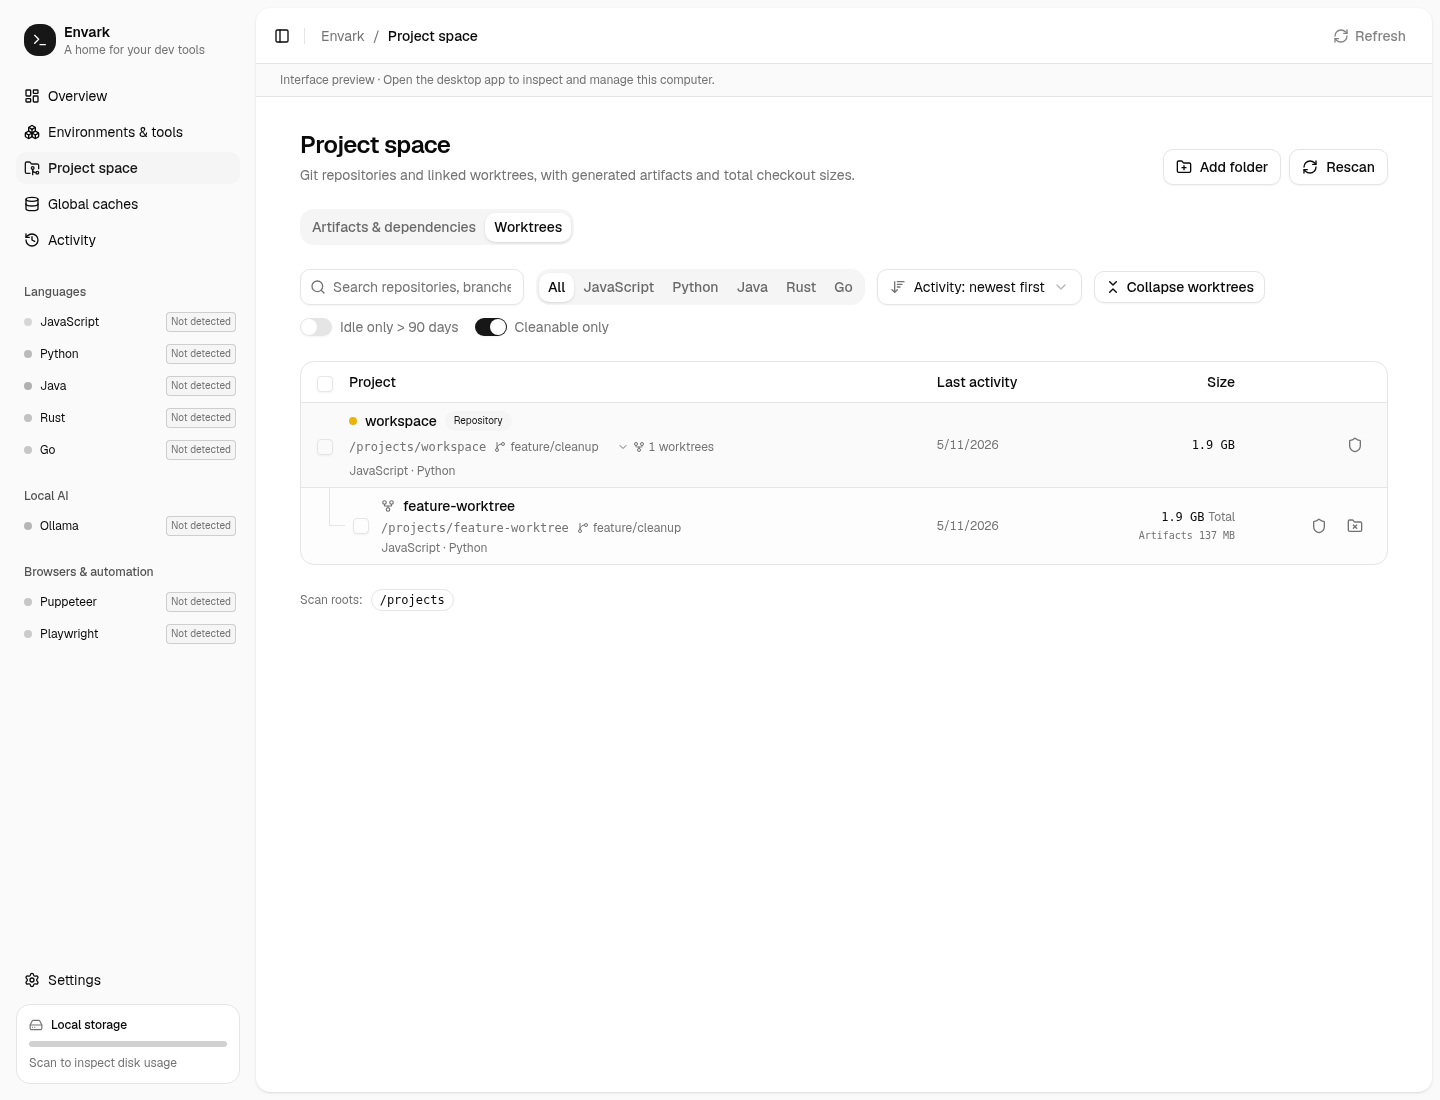
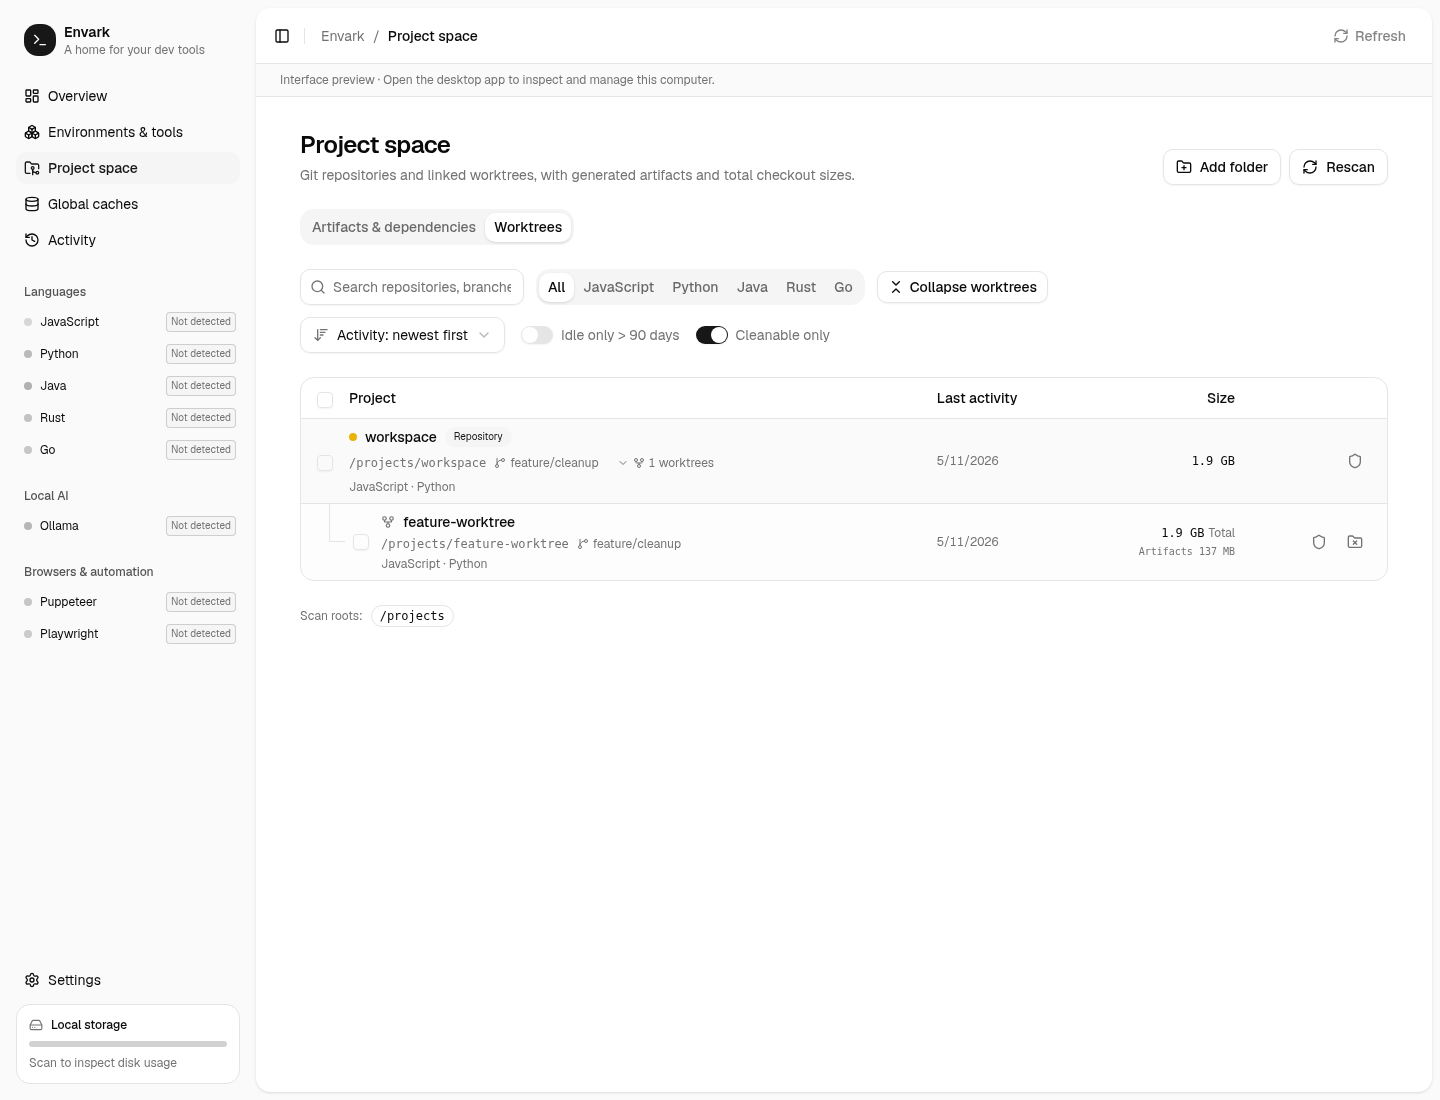
fix(projects): keep sorting and filters on a separate row

diff --git a/src/views/Projects.tsx b/src/views/Projects.tsx
@@ -110,60 +110,66 @@ export default function Projects() {
           <TabsTrigger value="worktrees">{t('工作树', 'Worktrees')}</TabsTrigger>
         </TabsList>
       </Tabs>
-      <div className="flex flex-wrap items-center gap-3">
-        <SearchInput
-          value={query}
-          onChange={setQuery}
-          placeholder={t('搜索仓库、分支或路径', 'Search repositories, branches, or paths')}
-        />
-        <Tabs value={provider} onValueChange={setProvider}>
-          <TabsList>
-            <TabsTrigger value="all">{t('全部', 'All')}</TabsTrigger>
-            {(['js', 'py', 'jvm', 'rust', 'go'] as const).map((id) => (
-              <TabsTrigger key={id} value={id}>
-                {metadata[id].short}
-              </TabsTrigger>
-            ))}
-          </TabsList>
-        </Tabs>
-        <Select value={sort} onValueChange={(value) => setSort(value as ProjectSort)}>
-          <SelectTrigger aria-label={t('项目排序', 'Sort projects')} className="w-auto min-w-40">
-            <ArrowDownWideNarrow className="size-4" />
-            <SelectValue />
-          </SelectTrigger>
-          <SelectContent>
-            <SelectItem value="activity-desc">
-              {t('活动：最近优先', 'Activity: newest first')}
-            </SelectItem>
-            <SelectItem value="activity-asc">
-              {t('活动：最早优先', 'Activity: oldest first')}
-            </SelectItem>
-            <SelectItem value="size-desc">{t('占用：从大到小', 'Size: largest first')}</SelectItem>
-            <SelectItem value="size-asc">{t('占用：从小到大', 'Size: smallest first')}</SelectItem>
-          </SelectContent>
-        </Select>
-        {mode === 'worktrees' && parents.length > 0 && (
-          <Button
-            variant="outline"
-            size="sm"
-            onClick={() =>
-              setCollapsed((current) => {
-                const next = new Set(current)
-                for (const group of parents) {
-                  if (allExpanded) next.add(group.repository.id)
-                  else next.delete(group.repository.id)
-                }
-                return next
-              })
-            }
-          >
-            {allExpanded ? <ChevronsDownUp /> : <ChevronsUpDown />}
-            {allExpanded
-              ? t('收起 worktree', 'Collapse worktrees')
-              : t('展开 worktree', 'Expand worktrees')}
-          </Button>
-        )}
+      <div className="space-y-3">
+        <div className="flex flex-wrap items-center gap-3">
+          <SearchInput
+            value={query}
+            onChange={setQuery}
+            placeholder={t('搜索仓库、分支或路径', 'Search repositories, branches, or paths')}
+          />
+          <Tabs value={provider} onValueChange={setProvider}>
+            <TabsList>
+              <TabsTrigger value="all">{t('全部', 'All')}</TabsTrigger>
+              {(['js', 'py', 'jvm', 'rust', 'go'] as const).map((id) => (
+                <TabsTrigger key={id} value={id}>
+                  {metadata[id].short}
+                </TabsTrigger>
+              ))}
+            </TabsList>
+          </Tabs>
+          {mode === 'worktrees' && parents.length > 0 && (
+            <Button
+              variant="outline"
+              size="sm"
+              onClick={() =>
+                setCollapsed((current) => {
+                  const next = new Set(current)
+                  for (const group of parents) {
+                    if (allExpanded) next.add(group.repository.id)
+                    else next.delete(group.repository.id)
+                  }
+                  return next
+                })
+              }
+            >
+              {allExpanded ? <ChevronsDownUp /> : <ChevronsUpDown />}
+              {allExpanded
+                ? t('收起 worktree', 'Collapse worktrees')
+                : t('展开 worktree', 'Expand worktrees')}
+            </Button>
+          )}
+        </div>
         <div className="flex flex-wrap items-center gap-4">
+          <Select value={sort} onValueChange={(value) => setSort(value as ProjectSort)}>
+            <SelectTrigger aria-label={t('项目排序', 'Sort projects')} className="w-auto min-w-40">
+              <ArrowDownWideNarrow className="size-4" />
+              <SelectValue />
+            </SelectTrigger>
+            <SelectContent>
+              <SelectItem value="activity-desc">
+                {t('活动：最近优先', 'Activity: newest first')}
+              </SelectItem>
+              <SelectItem value="activity-asc">
+                {t('活动：最早优先', 'Activity: oldest first')}
+              </SelectItem>
+              <SelectItem value="size-desc">
+                {t('占用：从大到小', 'Size: largest first')}
+              </SelectItem>
+              <SelectItem value="size-asc">
+                {t('占用：从小到大', 'Size: smallest first')}
+              </SelectItem>
+            </SelectContent>
+          </Select>
           <label className="flex items-center gap-2 text-sm text-muted-foreground">
             <Switch
               aria-label={t('仅闲置', 'Idle only')}
